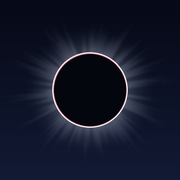
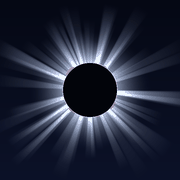
Add files via upload

Changed region(s): [[0.0556, 0.0833, 1.0, 0.8611], [0.7778, 0.4444, 0.8056, 0.4722]]

diff --git a/index.html b/index.html
@@ -5,8 +5,8 @@
 <meta name="viewport" content="width=device-width, initial-scale=1, viewport-fit=cover">
 <meta name="theme-color" content="#070B1A">
 <link rel="manifest" href="./manifest.webmanifest">
[2 lines of base64/hex data omitted]
+<link rel="apple-touch-icon" href="./icon-180.png">
+<link rel="icon" type="image/png" sizes="192x192" href="./icon-192.png">
 <meta name="mobile-web-app-capable" content="yes">
 <meta name="apple-mobile-web-app-capable" content="yes">
 <meta name="apple-mobile-web-app-status-bar-style" content="black-translucent">
@@ -148,6 +148,25 @@ button:focus-visible{outline:2px solid var(--safran);outline-offset:2px}
 .warn p:last-child{margin-bottom:0}
 .warn .ok{color:var(--perle)}
 
+
+.diag{margin:26px 0 0;border:1px solid var(--trait);border-radius:12px;overflow:hidden}
+.diag summary{
+  padding:12px 14px;cursor:pointer;list-style:none;
+  font-family:'IBM Plex Mono',monospace;font-size:11px;letter-spacing:.15em;
+  text-transform:uppercase;color:var(--brume);
+}
+.diag summary::-webkit-details-marker{display:none}
+.diag summary::after{content:' \25be'}
+.diag[open] summary::after{content:' \25b4'}
+.diag ul{list-style:none;margin:0;padding:0 14px 14px}
+.diag li{
+  display:flex;gap:9px;align-items:flex-start;padding:6px 0;
+  font-family:'IBM Plex Mono',monospace;font-size:11.5px;line-height:1.45;color:var(--brume);
+}
+.diag li b{flex:0 0 auto;width:14px;text-align:center;font-weight:500}
+.diag li.ok b{color:#57C08A}
+.diag li.ko b{color:#EFA48E}
+.diag li.ko{color:#EFA48E}
 footer{margin-top:30px;padding-top:14px;border-top:1px solid var(--trait);
   font-family:'IBM Plex Mono',monospace;font-size:10.5px;line-height:1.7;
   color:var(--brume);letter-spacing:.03em}
@@ -226,6 +245,12 @@ footer{margin-top:30px;padding-top:14px;border-top:1px solid var(--trait);
     <p>Du premier au deuxième contact, puis du troisième au quatrième, le Soleil brûle la rétine sans douleur. Jamais à l'œil nu, jamais de jumelles ou d'appareil photo sans filtre devant l'objectif.</p>
     <p class="ok">Entre C2 et C3, et seulement là, on retire les lunettes : c'est le seul moyen de voir la couronne, et elle ne présente aucun danger. Remettez-les dès la première étincelle du troisième contact.</p>
   </div>
+
+
+  <details class="diag">
+    <summary>Diagnostic d'installation</summary>
+    <ul id="diagList"><li><b>·</b><span>Vérification en cours…</span></li></ul>
+  </details>
 
   <footer>
     Calculs : éléments besséliens NASA/GSFC (F. Espenak), Saros 136, méthode Meeus ch. 54, ΔT = 76,0 s.<br>
@@ -893,6 +918,63 @@ if ('serviceWorker' in navigator && location.protocol.startsWith('http')) {
     navigator.serviceWorker.register('./sw.js').catch((e) => console.warn('SW:', e));
   });
 }
+</script>
+
+<script>
+/* ---- diagnostic : dit précisément ce qui empêche l'installation ---- */
+(async () => {
+  const ul = document.getElementById('diagList');
+  const lignes = [];
+  const add = (ok, txt) => lignes.push({ ok, txt });
+
+  add(location.protocol === 'https:' || location.hostname === 'localhost',
+      location.protocol === 'https:' ? 'Page servie en https'
+        : `Page servie en ${location.protocol} — Chrome n'installe que du https`);
+
+  add(!!navigator.serviceWorker, 'API service worker disponible');
+  if (navigator.serviceWorker) {
+    try {
+      const r = await navigator.serviceWorker.getRegistration();
+      add(!!r, r ? 'Service worker enregistré' : 'Service worker absent — rechargez la page');
+    } catch (e) { add(false, 'Service worker : ' + e.message); }
+  }
+
+  let man = null;
+  try {
+    const rep = await fetch('./manifest.webmanifest', { cache: 'no-store' });
+    add(rep.ok, rep.ok ? 'Manifeste chargé' : `Manifeste introuvable (HTTP ${rep.status}) — fichier absent du dépôt`);
+    if (rep.ok) man = await rep.json();
+  } catch (e) { add(false, 'Manifeste illisible : ' + e.message); }
+
+  if (man) {
+    add(Array.isArray(man.icons) && man.icons.length > 0, 'Icônes déclarées : ' + (man.icons || []).length);
+    for (const ic of man.icons || []) {
+      try {
+        const r = await fetch(ic.src, { cache: 'no-store' });
+        const type = r.headers.get('content-type') || '';
+        add(r.ok && type.includes('png'),
+            r.ok ? `${ic.src} — ${ic.sizes} ${type.includes('png') ? 'OK' : 'type ' + type}`
+                 : `${ic.src} — HTTP ${r.status}, fichier manquant`);
+      } catch (e) { add(false, `${ic.src} — ${e.message}`); }
+    }
+    add(!!man.start_url && !!man.name && man.display === 'standalone',
+        `start_url ${man.start_url}, affichage ${man.display}`);
+  }
+
+  const pose = matchMedia('(display-mode: standalone)').matches;
+  add(true, pose ? 'Lancée depuis l\'écran d\'accueil' : 'Ouverte dans le navigateur');
+
+  ul.innerHTML = '';
+  for (const l of lignes) {
+    const li = document.createElement('li');
+    li.className = l.ok ? 'ok' : 'ko';
+    li.innerHTML = '<b>' + (l.ok ? '\u2713' : '\u2717') + '</b><span></span>';
+    li.querySelector('span').textContent = l.txt;
+    ul.appendChild(li);
+  }
+  const ko = lignes.filter(l => !l.ok).length;
+  if (ko) document.querySelector('.diag').open = true;
+})();
 </script>
 </body>
 </html>

diff --git a/sw.js b/sw.js
@@ -1,13 +1,17 @@
 /* Éclipse 2027 — service worker
    Coquille applicative en cache d'abord, polices en réseau d'abord avec repli cache. */
-const VERSION = 'ecl2027-v5';
+const VERSION = 'ecl2027-v6';
 const SHELL = 'shell-' + VERSION;
 const RUNTIME = 'runtime-' + VERSION;
 
 const FICHIERS = [
   './',
   './index.html',
-  './manifest.webmanifest'
+  './manifest.webmanifest',
+  './icon-192.png',
+  './icon-512.png',
+  './icon-180.png',
+  './icon-maskable-512.png'
 ];
 
 self.addEventListener('install', (e) => {
